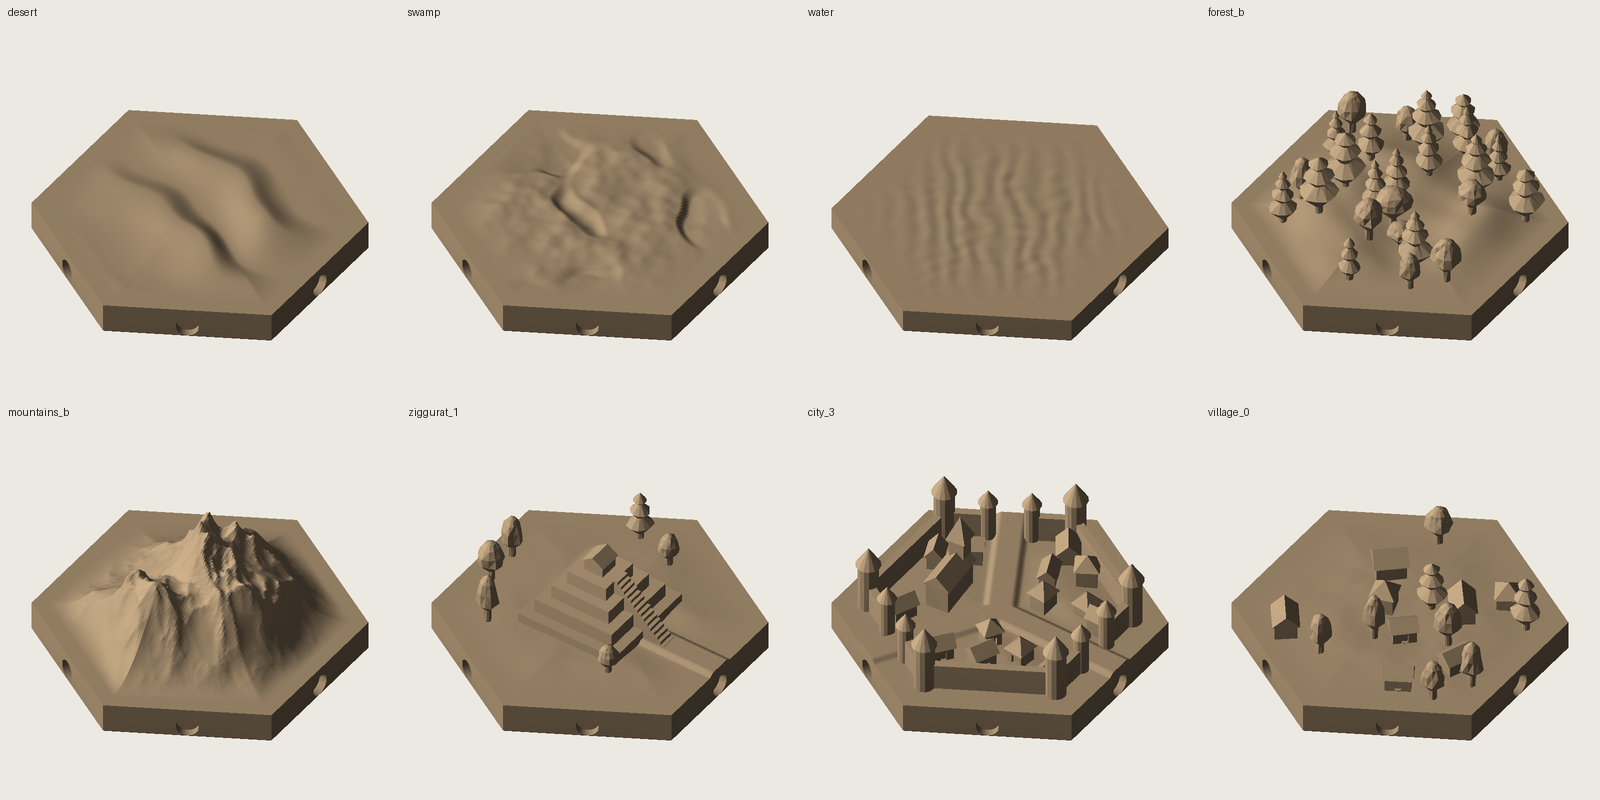
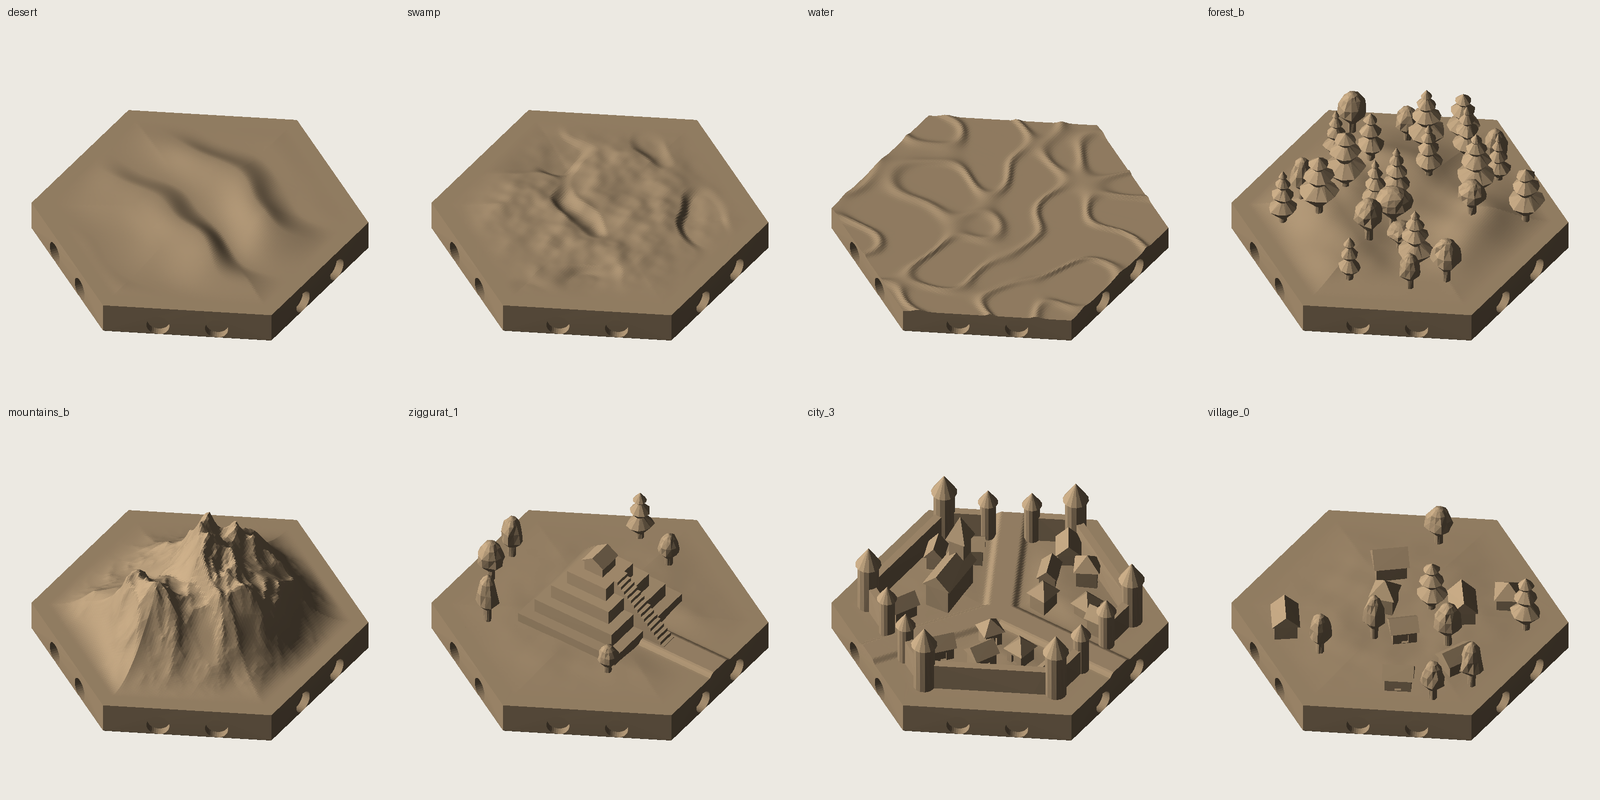
Meandering roads and rivers; water ripples run to the tile edge
Claude-Session: https://claude.ai/code/session_01VaSFg4twwAgixgkXK4p2Ey

diff --git a/hexlib.py b/hexlib.py
@@ -38,6 +38,7 @@ class Params:
     river_w: float = 6.0
     river_depth: float = 1.0
     chamfer: float = 0.4        # bottom-edge chamfer (reduces elephant's foot)
+    organic: float = 1.0        # 0 = geometric roads/rivers, 1 = meandering
 
     @property
     def a(self):                # actual apothem of the printed tile
@@ -122,41 +123,88 @@ def hex_prism(a, h, z0=0.0, scale=1.0):
 # road / river paths
 # --------------------------------------------------------------------------
 class PathNet:
-    def __init__(self, polys):
+    """A network of polylines with a per-vertex width scale.
+    query() returns the distance to the network *divided by the local width scale*,
+    so callers keep using fixed width constants while the path swells and narrows."""
+
+    def __init__(self, polys, widths=None):
         self.polys = [np.asarray(p, float) for p in polys]
-        A, B = [], []
-        for p in self.polys:
-            for i in range(len(p) - 1):
-                A.append(p[i]); B.append(p[i + 1])
-        self.A, self.B = np.array(A), np.array(B)
+        A, B, W = [], [], []
+        for i, p in enumerate(self.polys):
+            w = np.ones(len(p)) if widths is None else np.asarray(widths[i], float)
+            for k in range(len(p) - 1):
+                A.append(p[k]); B.append(p[k + 1]); W.append(0.5 * (w[k] + w[k + 1]))
+        self.A, self.B, self.W = np.array(A), np.array(B), np.array(W)
         self.D = self.B - self.A
         self.L2 = (self.D ** 2).sum(1) + 1e-12
         self.ang = np.arctan2(self.D[:, 1], self.D[:, 0])
 
     @staticmethod
-    def from_exits(exits, a, ext=3.0):
-        pts = [(a + ext) * np.array([np.cos(60 * e * DEG), np.sin(60 * e * DEG)]) for e in exits]
-        c = np.zeros(2)
-        polys = []
+    def _resample(poly, step=0.4):
+        poly = np.asarray(poly, float)
+        seg = np.hypot(*np.diff(poly, axis=0).T)
+        s = np.concatenate([[0], np.cumsum(seg)])
+        n = max(2, int(s[-1] / step) + 1)
+        t = np.linspace(0, s[-1], n)
+        return np.stack([np.interp(t, s, poly[:, 0]), np.interp(t, s, poly[:, 1])], 1), t
+
+    @staticmethod
+    def from_exits(exits, a, ext=3.0, rng=None, organic=0.0, wamp=0.0):
+        """Paths from edge midpoints (always leaving the edge perpendicular, at the
+        same place and width) into the tile.  `organic` scales the meander, which
+        fades to nothing near every edge so neighbouring tiles still line up."""
+        rng = rng if rng is not None else np.random.RandomState(0)
+        dirs = [np.array([np.cos(60 * e * DEG), np.sin(60 * e * DEG)]) for e in exits]
+        pts = [(a + ext) * d for d in dirs]
+        base, center_fixed = [], False
         if len(exits) == 1:
-            polys.append([pts[0], c])
+            end = dirs[0] * (rng.uniform(0.0, 4.0) * organic)
+            base.append(np.array([pts[0], end]))
         elif len(exits) == 2:
-            t = np.linspace(0, 1, 41)[:, None]
-            polys.append((1 - t) ** 2 * pts[0] + 2 * (1 - t) * t * c + t ** 2 * pts[1])
+            P0, P3 = pts
+            span = np.linalg.norm(P0 - P3)
+            k0, k1 = [span * (0.30 + 0.30 * (1 - organic) + 0.18 * organic * rng.rand()) for _ in range(2)]
+            if np.allclose(P0, -P3):                 # straight through: keep the control points on the line
+                k0 = k1 = span / 3
+            P1, P2 = P0 - dirs[0] * k0, P3 - dirs[1] * k1
+            t = np.linspace(0, 1, 80)[:, None]
+            base.append((1 - t) ** 3 * P0 + 3 * (1 - t) ** 2 * t * P1 + 3 * (1 - t) * t ** 2 * P2 + t ** 3 * P3)
         else:
-            for pt in pts:
-                polys.append([pt, c])
-        return PathNet(polys)
+            c = rng.uniform(-1, 1, 2) * 1.2 * organic
+            center_fixed = True
+            for d, pt in zip(dirs, pts):
+                base.append(np.array([pt, d * 9.0, c]))
+        out, wid = [], []
+        for poly in base:
+            dense, s = PathNet._resample(poly)
+            if organic > 0:
+                tang = np.gradient(dense, axis=0)
+                tang /= np.linalg.norm(tang, axis=1, keepdims=True) + 1e-12
+                nrm = np.stack([-tang[:, 1], tang[:, 0]], 1)
+                ph = rng.uniform(0, 2 * np.pi, 4)
+                wig = (2.3 * np.sin(2 * np.pi * s / rng.uniform(15, 22) + ph[0])
+                       + 0.7 * np.sin(2 * np.pi * s / rng.uniform(7.0, 10.0) + ph[1]))
+                hd = hexdist(dense[:, 0], dense[:, 1])
+                taper = smoothstep((a - hd - 1.0) / 8.0)
+                if center_fixed or len(exits) == 1:        # junctions and dead ends stay put
+                    taper = taper * smoothstep(np.hypot(*(dense - poly[-1]).T) / 6.0)
+                dense = dense + (organic * wig * taper)[:, None] * nrm
+                wsc = 1.0 + wamp * (0.65 * np.sin(2 * np.pi * s / rng.uniform(8, 13) + ph[2])
+                                    + 0.35 * np.sin(2 * np.pi * s / rng.uniform(4, 6) + ph[3])) * taper
+            else:
+                wsc = np.ones(len(dense))
+            out.append(dense); wid.append(wsc)
+        return PathNet(out, wid)
 
     def query(self, X, Y):
-        """distance to network and local tangent angle"""
+        """width-normalised distance to the network and the local tangent angle"""
         P = np.stack([np.ravel(X), np.ravel(Y)], 1)
         best = np.full(len(P), 1e9)
         bi = np.zeros(len(P), int)
         for k in range(len(self.A)):
             t = np.clip(((P - self.A[k]) @ self.D[k]) / self.L2[k], 0, 1)
             q = self.A[k] + t[:, None] * self.D[k]
-            d = np.hypot(P[:, 0] - q[:, 0], P[:, 1] - q[:, 1])
+            d = np.hypot(P[:, 0] - q[:, 0], P[:, 1] - q[:, 1]) / self.W[k]
             m = d < best
             best[m] = d[m]
             bi[m] = k

diff --git a/tiles.py b/tiles.py
@@ -108,9 +108,24 @@ def t_swamp(c):
 
 
 def t_water(c):
-    ripple = 0.12 * np.sin(1.7 * c.X + 3 * fbm(c.X, c.Y, c.seed + 10, 2, 0.1)) * \
-        np.sin(1.3 * c.Y + 3 * fbm(c.X, c.Y, c.seed + 11, 2, 0.1))
-    return ripple, -c.p.river_depth
+    """Wavy crest lines from lattice-periodic waves (wave vectors from the hex reciprocal lattice).
+    The phases are fixed, not per tile, so every water tile carries the same pattern and it
+    runs unbroken across the shared edge of neighbouring tiles. Troughs sit exactly at the
+    river-floor level, so rivers and lakes meet cleanly."""
+    F, s3 = c.p.flat, np.sqrt(3.0)
+    b1 = np.array([1.0, -1.0 / s3]) / F
+    b2 = np.array([0.0, 2.0 / s3]) / F
+    rng = np.random.RandomState(20261027)
+    s = np.zeros_like(c.X)
+    for (m, n), w in (((2, 1), 1.0), ((3, 0), 0.9), ((3, 1), 0.8), ((4, 0), 0.6), ((3, 2), 0.5)):
+        k = 2 * np.pi * (m * b1 + n * b2)
+        for r in range(3):                       # k and -k are the same wave
+            th = r * 60 * DEG
+            kx = k[0] * np.cos(th) - k[1] * np.sin(th)
+            ky = k[0] * np.sin(th) + k[1] * np.cos(th)
+            s += w * np.cos(kx * c.X + ky * c.Y + rng.uniform(0, 2 * np.pi))
+    s = s / 1.5                                   # ~unit spread (fixed constant: identical on every tile)
+    return 0.35 * np.exp(-(s / 0.5) ** 2), -c.p.river_depth
 
 
 TERRAINS = dict(plains=t_plains, hills=t_hills, forest=lambda c: tuple([0.45 * t_hills(c)[0] + 0.3, 0.0]),
@@ -414,12 +429,16 @@ def build_tile(terrain='plains', road=None, river=None, feature=None, seed=0,
     c.exits = list(road or [])
     c.fort_flags = ('gate',) if feature == 'fort' else ()
 
+    # rigid geometry where a deck / walls / gates have to line up with the path
+    rigid = bridge or ford or feature in ('city', 'fort', 'temple', 'ziggurat', 'dungeon')
+    org = 0.0 if rigid else p.organic * (0.5 if feature == 'village' else 1.0)
     level = 0.0
     h, level = TERRAINS[terrain](c)
     h = np.asarray(h, float)
     if feature and 'height' in FEATURES[feature]:
         h = h + FEATURES[feature]['height'](c)
-    h = h * c.mask                     # flat level rim
+    if terrain != 'water':
+        h = h * c.mask                 # flat level rim (water keeps its ripples to the edge)
 
     # --- road & river networks --------------------------------------------
     if road:
@@ -427,9 +446,11 @@ def build_tile(terrain='plains', road=None, river=None, feature=None, seed=0,
             e = (p.a + 3.0)
             c.road = PathNet([[np.array([e, 0.0]), np.array([XF + 1.5, 0.0])]])
         else:
-            c.road = PathNet.from_exits(road, p.a)
+            c.road = PathNet.from_exits(road, p.a, rng=np.random.RandomState(seed + 101),
+                                        organic=0.6 * org, wamp=0.10)
     if river:
-        c.river = PathNet.from_exits(river, p.a)
+        c.river = PathNet.from_exits(river, p.a, rng=np.random.RandomState(seed + 202),
+                                     organic=org, wamp=0.22)
 
     Z = p.base + level + h
     if c.road is not None:
@@ -475,7 +496,7 @@ def build_tile(terrain='plains', road=None, river=None, feature=None, seed=0,
         for i in range(6):
             for off in offs:
                 pk = Manifold.cylinder(depth + 1.0, r, r, 32).rotate([0, 90, 0]) \
-                    .translate([p.a - depth, off, 2.0]).rotate([0, 0, 60 * i])
+                    .translate([p.a - depth, off, 1.9]).rotate([0, 0, 60 * i])
                 tile = tile - pk
 
     # --- features ---------------------------------------------------------

diff --git a/preview.py b/preview.py
@@ -7,7 +7,7 @@ import trimesh
 from PIL import Image, ImageDraw
 
 
-def render(mesh, size=420, az=-35, el=42, ssaa=2):
+def render(mesh, size=420, az=-35, el=42, ssaa=2, span=25.0):
     S = size * ssaa
     v = mesh.vertices.copy()
     a, e = np.radians(az), np.radians(el)
@@ -16,7 +16,7 @@ def render(mesh, size=420, az=-35, el=42, ssaa=2):
     w = (Rx @ Rz @ v.T).T                       # x right, y = depth (away), z up on screen
     # after tilt: screen x = w[:,0], screen y = w[:,2], depth = -w[:,1]
     sx, sy, dp = w[:, 0], w[:, 2], -w[:, 1]
-    sc = S * 0.46 / 25.0
+    sc = S * 0.46 / span
     px = S / 2 + sx * sc
     py = S * 0.60 - sy * sc
     F = mesh.faces
@@ -68,10 +68,24 @@ def main():
     ap.add_argument('--size', type=int, default=420)
     ap.add_argument('--az', type=float, default=-35)
     ap.add_argument('--el', type=float, default=42)
+    ap.add_argument('--span', type=float, default=25.0, help='half-width of the view in mm')
+    ap.add_argument('--group', action='store_true', help='render all STLs offset onto the hex lattice, as one scene')
     a = ap.parse_args()
     tiles = []
+    if a.group:                      # first STL repeated/placed on lattice cells: pass names; offsets from --cells
+        import numpy as np
+        cells = [(0, 0), (1, 0), (0, 1), (-1, 1)]
+        meshes = []
+        for f, (i, j) in zip(a.files, cells):
+            m = trimesh.load(f)
+            m.apply_translation([40.0 * i + 20.0 * j, 34.641 * j, 0])
+            meshes.append(m)
+        scene = trimesh.util.concatenate(meshes)
+        scene.apply_translation([-scene.bounds.mean(axis=0)[0], -scene.bounds.mean(axis=0)[1], 0])
+        im = render(scene, a.size, a.az, a.el, span=a.span)
+        im.save(a.out); print('wrote', a.out); return
     for f in a.files:
-        im = render(trimesh.load(f), a.size, a.az, a.el)
+        im = render(trimesh.load(f), a.size, a.az, a.el, span=a.span)
         d = ImageDraw.Draw(im)
         d.text((8, 6), os.path.splitext(os.path.basename(f))[0], fill=(40, 40, 40))
         tiles.append(im)

diff --git a/generate.py b/generate.py
@@ -93,10 +93,11 @@ def main():
     ap.add_argument('--magnet-d', type=float, default=3.0)
     ap.add_argument('--magnet-t', type=float, default=1.0)
     ap.add_argument('--res', type=float, default=0.3)
+    ap.add_argument('--organic', type=float, default=1.0, help='meander of roads/rivers, 0 = geometric')
     a = ap.parse_args()
 
     p = Params(flat=a.flat, magnets=not a.no_magnets, magnet_d=a.magnet_d,
-               magnet_t=a.magnet_t, res=a.res, magnets_per_edge=a.magnets_per_edge)
+               magnet_t=a.magnet_t, res=a.res, magnets_per_edge=a.magnets_per_edge, organic=a.organic)
     cat = catalogue()
     names = a.only if a.only else (TEST if a.set == 'test' else list(cat))
     os.makedirs(a.out, exist_ok=True)

diff --git a/README.md b/README.md
@@ -39,8 +39,20 @@ The number on features is how many road exits the tile has.
 
 Roads and rivers are listed by the edges they use; print one and rotate it. Six rotations
 cover everything, fewer for symmetric tiles. `fork_t` is one-handed, so mirror it in your slicer
-for the other hand. The `water` tile sits 1 mm below the land, exactly the river floor level, so
-rivers flow straight into lakes.
+for the other hand.
+
+**Meandering paths.** Rivers and roads wander, and rivers also swell and narrow. The meander fades
+to nothing at every edge, so each path still leaves the tile at the edge midpoint, perpendicular,
+with the standard width, and any tile still joins any other. Bridge, ford and the walled or
+fortified feature tiles keep straight paths so decks and gates line up; villages meander gently.
+`--organic 0` gives the old geometric paths, `--organic 1.5` wilder ones.
+
+**Water.** The `water` tile sits 1 mm below the land, exactly the river floor level, so rivers
+flow straight into lakes. Its surface carries a wavy crest pattern that runs right to the edge
+(troughs at river level, crests up to 0.35 mm above). The pattern is the same on every water
+tile and tiles the hex lattice, so it continues unbroken across shared edges.
+
+![Four water tiles joined](previews/water_seamless.png)
 
 ![Roads](previews/roads.png)
 ![Rivers and bridge](previews/rivers.png)
@@ -56,6 +68,8 @@ rivers flow straight into lakes.
   edge at the midpoint, perpendicular, with an identical profile, so
   **any tile joins any tile, in any rotation**
 - Water sits at river-floor level, so rivers and lakes meet seamlessly
+- Water ripples are lattice-periodic, so water tiles placed in the same orientation match exactly;
+  turning one by 60 degrees leaves a seam step of at most 0.35 mm
 
 ## Magnets
 
@@ -82,10 +96,12 @@ Pockets sit below the lowest surface at every edge, so rivers never break into t
 1. **Heightmap.** Each tile starts as a heightfield on a 0.3 mm grid. Terrain comes from vectorised
    gradient noise: ridged noise under a few Gaussian peaks for mountains, smoothed low-frequency noise for
    hills, warped sawtooth ridges for dunes, tussocks and pools for swamp. A smooth mask forces the height
-   to zero across the rim so neighbouring tiles always match.
-2. **Roads and rivers.** Paths run from edge midpoints to the centre (Bezier curves for two exits,
-   straight spokes for three or more). Terrain is flattened or valley-shaped around them, roads are raised
-   and rivers are carved. Bridges and fords are variants that crossing roads and rivers use.
+   to zero across the rim so neighbouring tiles always match. Water is the exception: its ripples come from
+   waves on the hex reciprocal lattice, which repeat exactly from tile to tile.
+2. **Roads and rivers.** Paths leave each edge midpoint radially and join through cubic Bezier curves
+   (two exits) or spokes (three or more). A sinusoidal sideways wiggle and width variation are added,
+   both tapered to zero near the edges so tiles still match. Terrain is flattened or valley-shaped
+   around the path, roads are raised and rivers carved. Bridge and ford tiles keep rigid paths.
 3. **Solid and clipping.** The heightfield is closed into a solid and intersected with a chamfered
    hexagonal prism, then magnet pockets are cut.
 4. **Structures.** Trees (stepped conifers, lumpy broadleaves), houses with eaves, walls, towers,
@@ -114,9 +130,10 @@ python3 generate.py --set all                     # everything
 python3 generate.py --only city_2 forest          # chosen tiles
 python3 generate.py --flat 60                     # 60 mm tiles (structures do not scale; see below)
 python3 generate.py --out my_stl --res 0.2        # output folder, finer heightmap grid
+python3 generate.py --organic 0                   # straight, geometric roads and rivers
 ```
 
-Options: `--flat`, `--no-magnets`, `--magnets-per-edge {1,2}`, `--magnet-d`, `--magnet-t`, `--res`, `--out`.
+Options: `--flat`, `--no-magnets`, `--magnets-per-edge {1,2}`, `--magnet-d`, `--magnet-t`, `--res`, `--organic`, `--out`.
 
 To change how a tile looks, edit its `seed` in the catalogue in `generate.py`. To add a tile, add an entry
 there; to add a new feature, write a function in `tiles.py` and register it in `FEATURES`.
